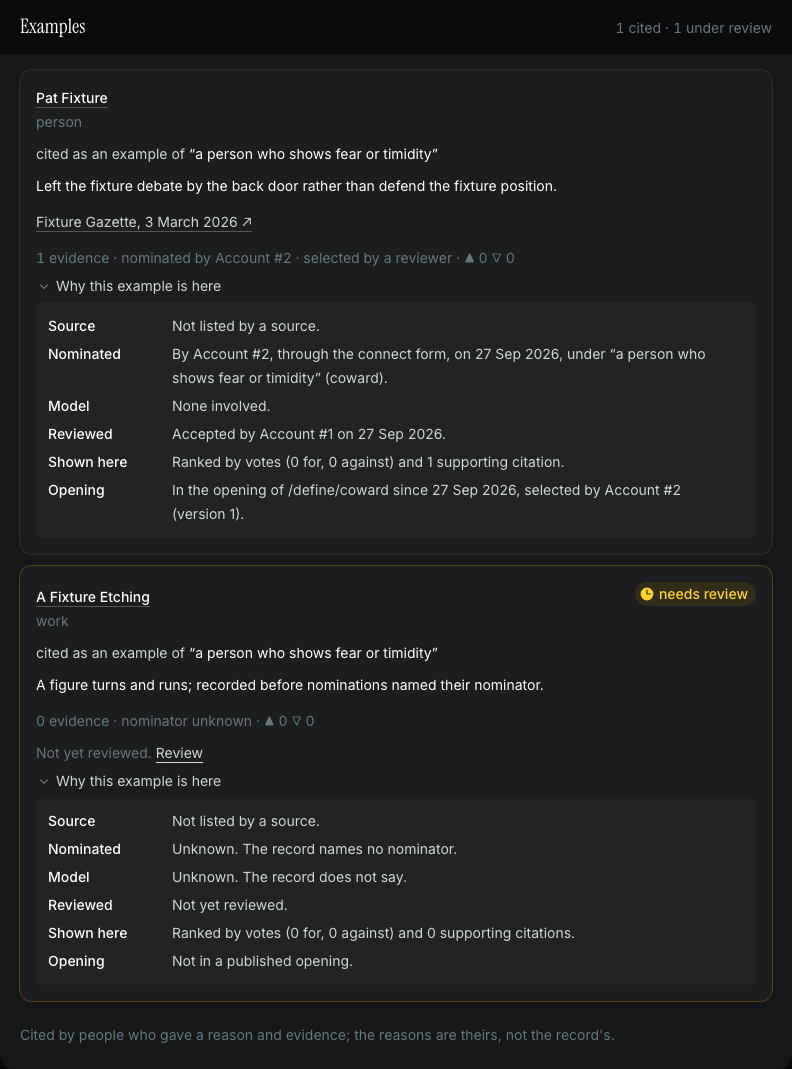
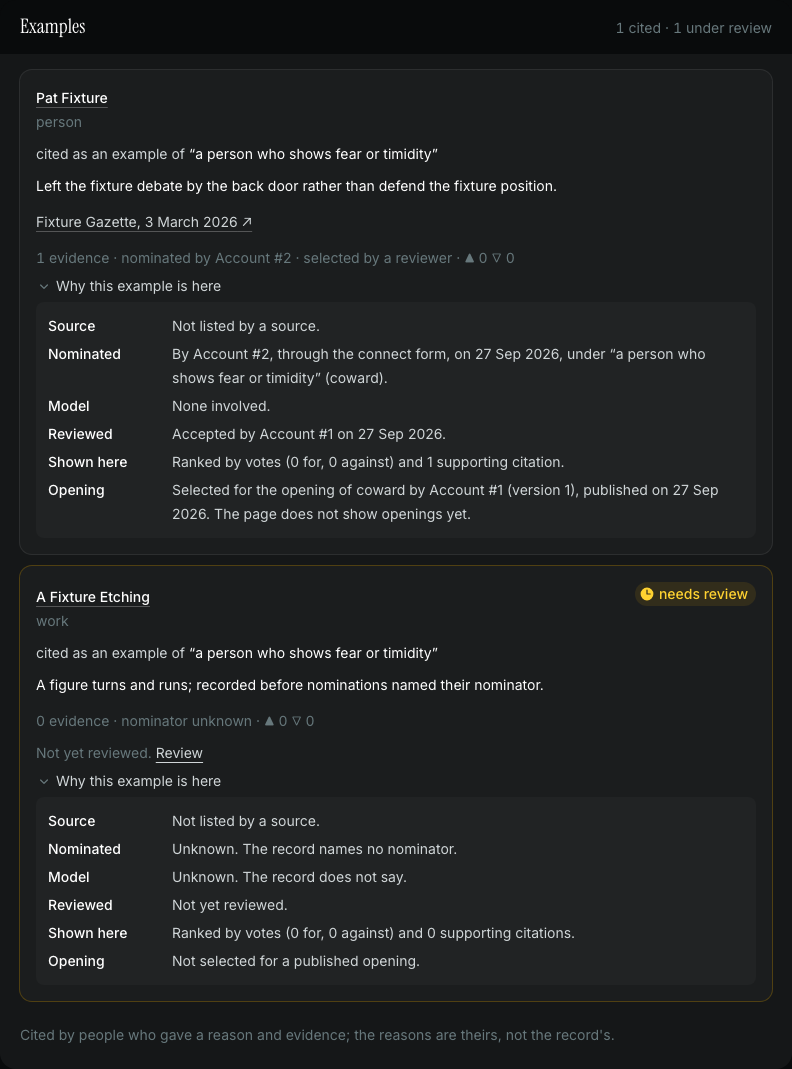
Recapture Build 2's screenshots after the fixes: global-default composition, closed state, person page in both themes

Changed region(s): [[0.2121, 0.4322, 0.8485, 0.4939], [0.2424, 0.8952, 0.5152, 0.9261], [0.8788, 0.4322, 0.9091, 0.463]]

diff --git a/docs/design/issue-212/README.md b/docs/design/issue-212/README.md
@@ -1,37 +1,48 @@
 # #212 Build 2: "Why this example is here"
 
-Captures of `/define/coward` and the person page, from a preview on port 4057. The preview ran with `DD_NO_OBAN=1`, so it executed no jobs, against a scratch database, `devils_dictionary_ex212`. That database was migrated from empty and seeded only with fixtures:
-- a fictional person, "Pat Fixture", nominated through `Contributions.propose/6`, accepted, then composed and published in a lexeme composition for *coward*;
-- a legacy claim with no actor, "A Fixture Etching";
-- evidence URLs on `example.test`.
+These are captures of `/define/coward` and of the person page's *cited as* panel. They came from a preview on port 4057 that ran with `DD_NO_OBAN=1`, so it executed no jobs.
+
+The preview read a scratch database, `devils_dictionary_ex212`. It was migrated from empty and seeded only with fixtures:
+
+- **Pat Fixture**, a fictional person. The nomination went through `Contributions.propose/6` as Account #2 and was accepted by Account #1. Account #1 then selected it in a lexeme composition for *coward* under the enabled **global default** configuration, and published it.
+- **A Fixture Etching**, a legacy claim with no actor.
+- Evidence URLs on `example.test`.
 
 The shared dev database was not touched.
 
 ## Method
 
-- Playwright Chromium (1.58).
-- Two sizes: 1280 × 900 at DPR 1, and 375 × 812 at DPR 2 with mobile and touch emulation.
-- `prefers-color-scheme` set to light and to dark.
+- Playwright Chromium 1.58, at 1280 × 900 (DPR 1) and at 375 × 812 (DPR 2, with mobile and touch emulation).
+- `prefers-color-scheme` light and dark.
 - Section captures of `#examples` and `#entity-cited-as`, with the sticky header made static.
 - On every capture, `document.documentElement.scrollWidth` equals the viewport width.
 
-"Before" is the same page and database served by PR #218's code (`4839c6f`), which has no disclosure. "After" is this branch. The "why-open" captures have every "Why this example is here" disclosure opened.
+The phases:
+
+- **before**: the same page and database, served by PR #218's code (`4839c6f`), which has no disclosure.
+- **after-closed**: this branch's code, with every disclosure closed, which is the reader's default.
+- **why-open**: this branch's code, with both disclosures open.
 
 ## Page height (#111's method: every disclosure closed)
 
-The page has two exemplar cards.
+`/define/coward` has two exemplar cards.
 
-| Width | Page before → after | Screens | `#examples` before → after | Per card, closed | Per card, opened |
+| Viewport | Page, before → after | Screens | `#examples`, before → after | Per card, closed | Per card, opened (Pat Fixture / Etching) |
 |---|---|---|---|---|---|
-| 1280 × 900 | 3,284 → 3,340 px | 3.65 → 3.71 | 581 → 637 px | +28 px | +240 px more |
-| 375 × 812 | 5,063 → 5,159 px | 6.24 → 6.35 | 961 → 1,057 px | +48 px (a 44 px tap target) | +684 px more |
+| 1280 × 900 | 3,284 → 3,340 px | 3.65 → 3.71 | 581 → 637 px | +28 px each | +240 / +192 px more |
+| 375 × 812 | 5,063 → 5,159 px | 6.24 → 6.35 | 961 → 1,057 px | +48 px each (a 44 px tap target) | +712 / +544 px more |
 
-Light and dark measure the same. Opening both disclosures takes the page to 3,772 px at 1280 and 6,359 px at 375.
+With both disclosures open, `#examples` is 1,069 px at 1280 and 2,313 px at 375. Light and dark measure the same at every size.
+
+The person page's *cited as* panel gains the "selected for the opening of coward since … · not yet shown on its page" line:
+- at 1280: 145 → 169 px (+24 px, on a page of 1,854 → 1,878 px);
+- at 375: 243 → 299 px (+56 px, on a page of 2,332 → 2,388 px).
 
 ## Files
 
 | File | What |
 |---|---|
-| `issue-212-build2-coward-{1280,375}-{light,dark}-before.png` | the section before, from PR #218's code |
-| `issue-212-build2-coward-{1280,375}-{light,dark}-why-open.png` | the section after, with both disclosures open |
-| `issue-212-build2-person-{1280,375}-light.png` | the person page's *cited as* panel, with the "featured in the opening of…" line |
+| `issue-212-build2-coward-{1280,375}-{light,dark}-before.png` | the section, before (PR #218's code) |
+| `issue-212-build2-coward-{1280,375}-{light,dark}-after-closed.png` | the section after, disclosures closed |
+| `issue-212-build2-coward-{1280,375}-{light,dark}-why-open.png` | the section after, both disclosures open |
+| `issue-212-build2-person-{1280,375}-{light,dark}-{before,after}.png` | the person page's *cited as* panel, before and after |
